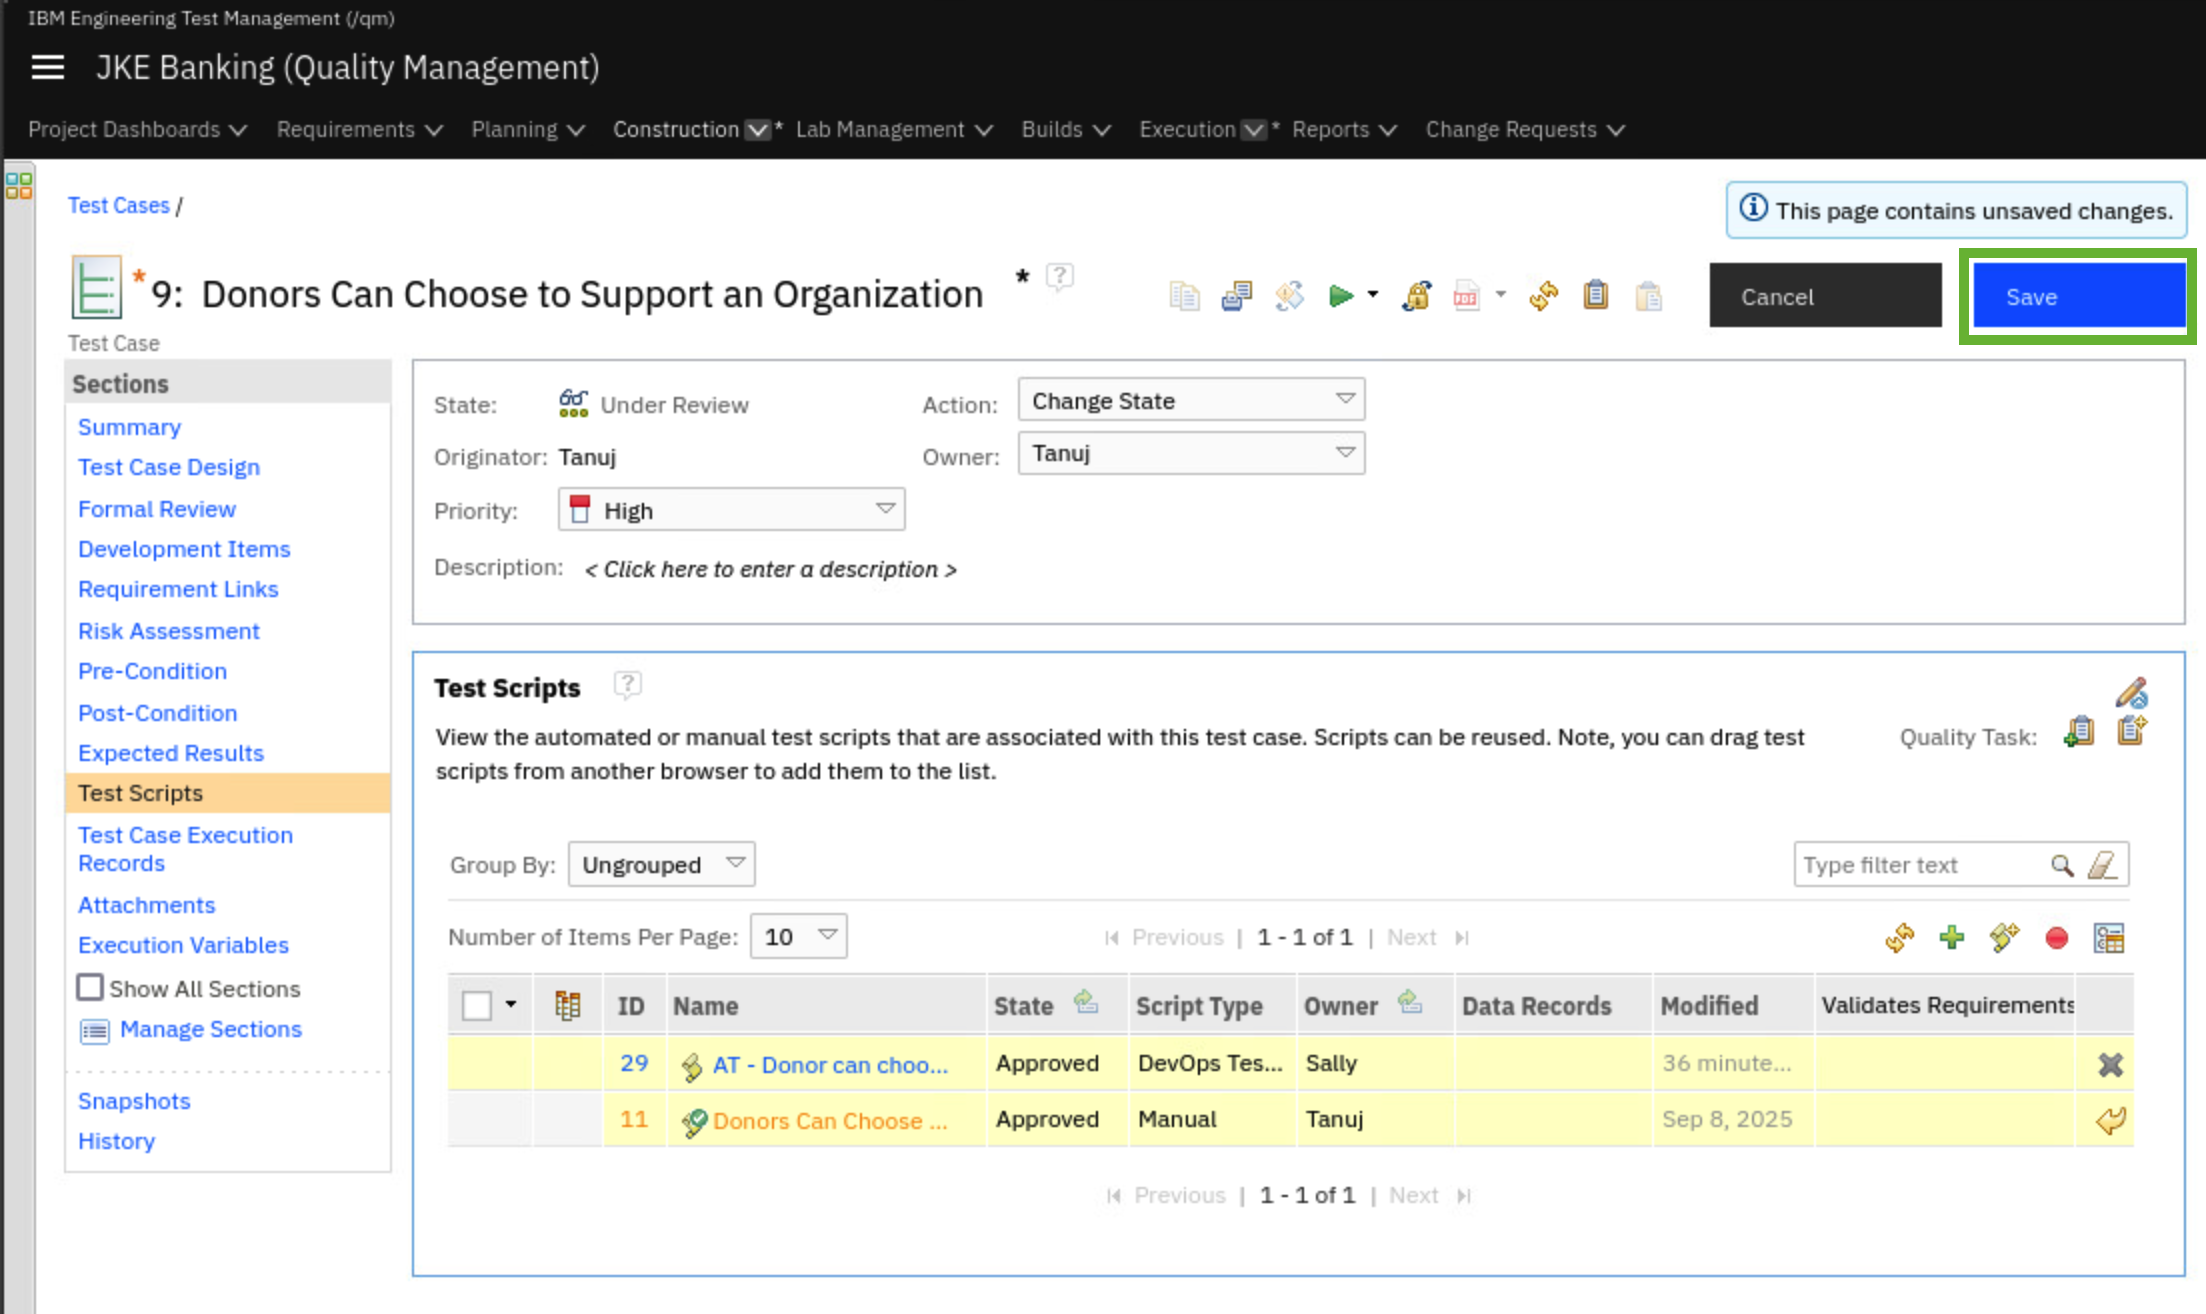
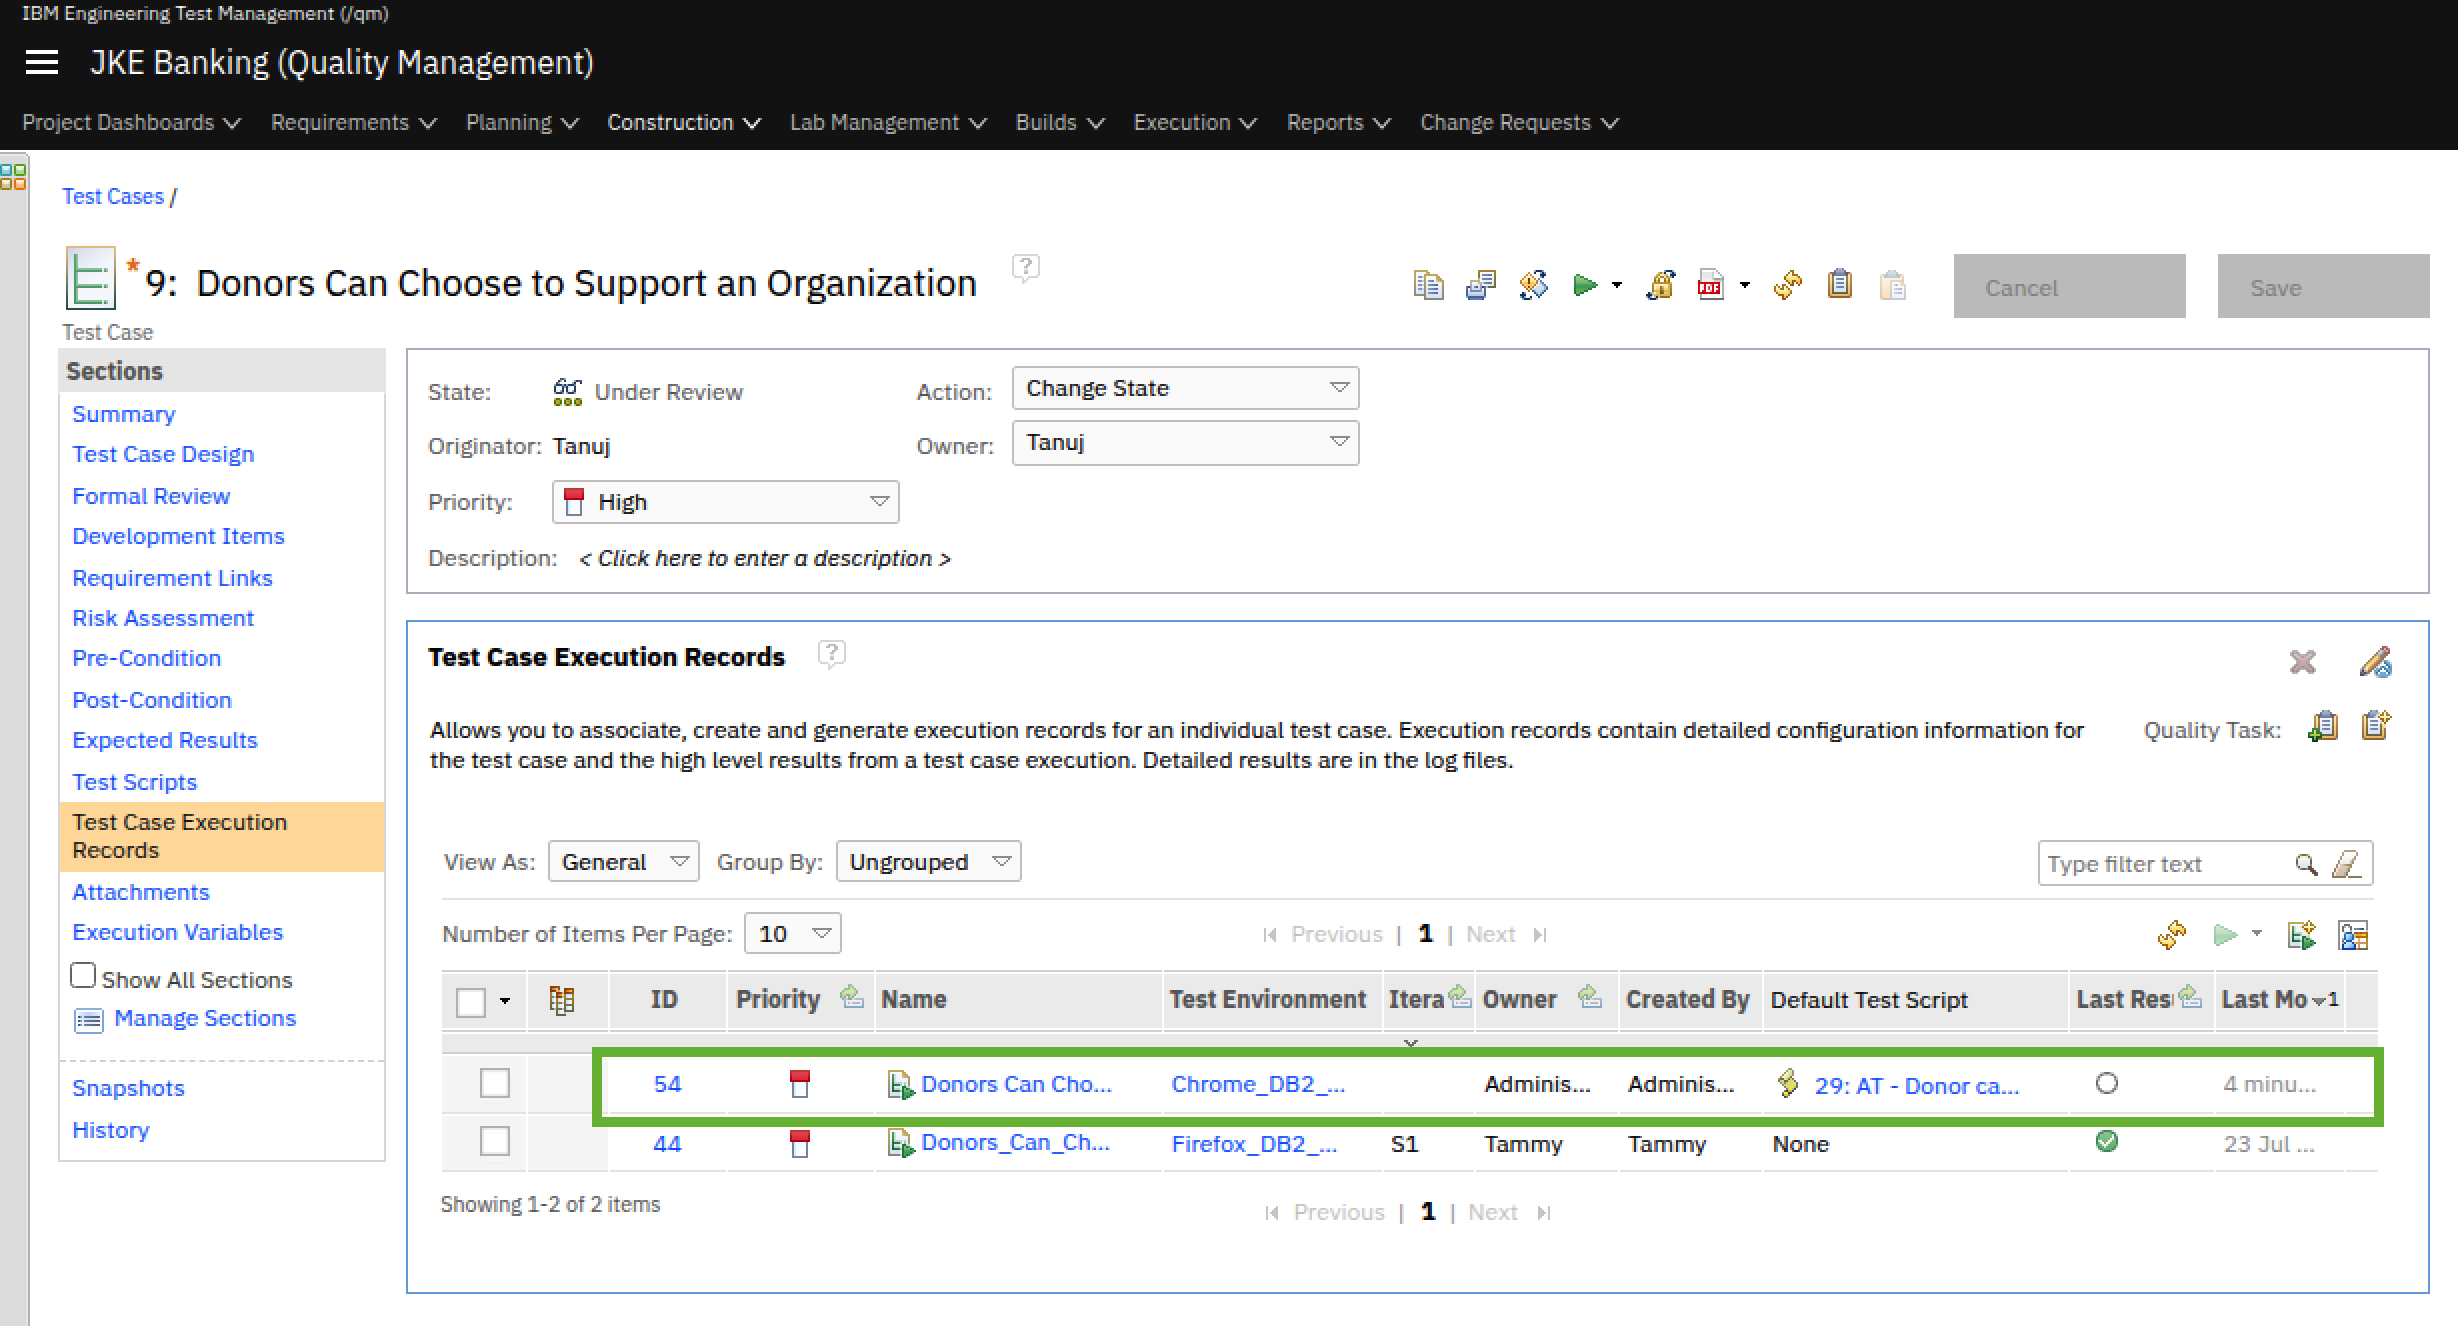
Deployed 916faa4 with MkDocs version: 1.6.1

diff --git a/index.html b/index.html
@@ -461,10 +461,10 @@
 </li>
         
           <li class="md-nav__item">
-  <a href="#5-review-the-test-execution-verdict-and-result-file-returned-to-etm-from-devops-test-solution" class="md-nav__link">
+  <a href="#5-review-the-test-execution-verdict-and-result-file-returned-to-etm-from-the-devops-test-ui-solution" class="md-nav__link">
     <span class="md-ellipsis">
       
-        5. Review the test execution verdict and result file returned to ETM from DevOps Test solution
+        5. Review the test execution verdict and result file returned to ETM from the DevOps Test UI solution
       
     </span>
   </a>
@@ -769,7 +769,7 @@ To learn more about test automation capabilities offered by IBM visit <a href="h
 <tr>
 <td style="text-align: center;">1</td>
 <td style="text-align: left;">From Ubuntu desktop, click <strong>DevOps Test UI</strong> shortcut to launch the testing application.</td>
-<td style="text-align: left;"><img src="media/t1_21.png" alt="t1_21" style="width:25%; height:auto;"></td>
+<td style="text-align: left;"><img src="media/t1_21.png" alt="t1_21" style="width:15%; height:auto;"></td>
 </tr>
 <tr>
 <td style="text-align: center;">2</td>
@@ -919,7 +919,7 @@ As these remaining two test automation solutions have not been installed/configu
 </tr>
 <tr>
 <td style="text-align: center;">7</td>
-<td style="text-align: left;">Enter the path to the DevOps Test UI workspace and project area within the workspace.</br></br><strong>/home/sysadmin/project/workspace/EchoLogic</strong></br></br>Click <strong>Go</strong>.</td>
+<td style="text-align: left;">Enter the path to the DevOps Test UI workspace and project area within the workspace.</br></br><strong>/home/sysadmin/IBM/devopstest/workspace/EchoLogic</strong></br></br>Click <strong>Go</strong>.</td>
 <td style="text-align: left;"><img src="media/t1_42.png" alt="t1_42" style="width:100%; height:auto;"></td>
 </tr>
 <tr>
@@ -971,11 +971,26 @@ As these remaining two test automation solutions have not been installed/configu
 </tr>
 <tr>
 <td style="text-align: center;">3</td>
-<td style="text-align: left;">Working in the Test Case Execution Records view of the Test Case, add a new Test Case Execution Record by clicking the Generate New Test Case Execution Record icon.</td>
-<td style="text-align: left;"><img src="media/t1_48.png" alt="t1_48" style="width:100%; height:auto;"></td>
+<td style="text-align: left;">Select the Test Scripts view of the Test Case and click the <strong>Add Test Scripts</strong> icon.</td>
+<td style="text-align: left;"><img src="media/t1_52.png" alt="t1_52" style="width:100%; height:auto;"></td>
 </tr>
 <tr>
 <td style="text-align: center;">4</td>
+<td style="text-align: left;">In the list of available Test Scripts, locate and select the Test Script created in the previous section - <strong>AT-Donor can choose organization</strong>. Click <strong>Add and Close</strong>.</td>
+<td style="text-align: left;"><img src="media/t1_53.png" alt="t1_53" style="width:100%; height:auto;"></td>
+</tr>
+<tr>
+<td style="text-align: center;">5</td>
+<td style="text-align: left;">Select the existing Manual test script and Remove.</td>
+<td style="text-align: left;"><img src="media/t1_54.png" alt="t1_54" style="width:100%; height:auto;"></td>
+</tr>
+<tr>
+<td style="text-align: center;">6</td>
+<td style="text-align: left;">Working in the Test Case Execution Records view of the Test Case, <strong>add a new Test Case Execution Record</strong> by clicking the Generate New Test Case Execution Record icon.</td>
+<td style="text-align: left;"><img src="media/t1_48.png" alt="t1_48" style="width:100%; height:auto;"></td>
+</tr>
+<tr>
+<td style="text-align: center;">7</td>
 <td style="text-align: left;">From the list of available Test Environments, select <strong>Chrome_DB2_Tomcat...</strong> and click <strong>Next</strong>.</td>
 <td style="text-align: left;"><img src="media/t1_49.png" alt="t1_49" style="width:100%; height:auto;"></td>
 </tr>
@@ -985,33 +1000,18 @@ As these remaining two test automation solutions have not been installed/configu
 <td style="text-align: left;"></td>
 </tr>
 <tr>
-<td style="text-align: center;">5</td>
+<td style="text-align: center;">8</td>
 <td style="text-align: left;">Enable the Test Environment and click <strong>Next</strong>.</td>
 <td style="text-align: left;"><img src="media/t1_50.png" alt="t1_50" style="width:100%; height:auto;"></td>
 </tr>
 <tr>
-<td style="text-align: center;">6</td>
+<td style="text-align: center;">9</td>
 <td style="text-align: left;">Select the Test Environment and click <strong>Generate Test Case Execution Records</strong></td>
 <td style="text-align: left;"><img src="media/t1_51.png" alt="t1_51" style="width:100%; height:auto;"></td>
 </tr>
 <tr>
-<td style="text-align: center;">7</td>
-<td style="text-align: left;">Select the Test Scripts view of the Test Case and click the <strong>Add Test Scripts</strong> icon.</td>
-<td style="text-align: left;"><img src="media/t1_52.png" alt="t1_52" style="width:100%; height:auto;"></td>
-</tr>
-<tr>
-<td style="text-align: center;">8</td>
-<td style="text-align: left;">In the list of available Test Scripts, locate and select the Test Script created in the previous section - <strong>AT-Donor can choose organization</strong>. Click <strong>Add and Close</strong>.</td>
-<td style="text-align: left;"><img src="media/t1_53.png" alt="t1_53" style="width:100%; height:auto;"></td>
-</tr>
-<tr>
-<td style="text-align: center;">9</td>
-<td style="text-align: left;">Select the existing Manual test script and Remove.</td>
-<td style="text-align: left;"><img src="media/t1_54.png" alt="t1_54" style="width:100%; height:auto;"></td>
-</tr>
-<tr>
 <td style="text-align: center;">10</td>
-<td style="text-align: left;"><strong>Save</strong> the Test Case changes.</td>
+<td style="text-align: left;">Notice the addition of the new Test Case Execution Record containing the automated test script as the default. <br/> <strong>Save</strong> the Test Case changes (if required).</td>
 <td style="text-align: left;"><img src="media/t1_55.png" alt="t1_55" style="width:100%; height:auto;"></td>
 </tr>
 </tbody>
@@ -1035,7 +1035,7 @@ As these remaining two test automation solutions have not been installed/configu
 <tr>
 <td style="text-align: center;">2</td>
 <td style="text-align: left;">Select Run from the options presented.</td>
-<td style="text-align: left;"><img src="media/t1_57.png" alt="t1_57" style="width:100%; height:auto;"></td>
+<td style="text-align: left;"><img src="media/t1_57.png" alt="t1_57" style="width:50%; height:auto;"></td>
 </tr>
 <tr>
 <td style="text-align: center;">3</td>
@@ -1049,13 +1049,13 @@ As these remaining two test automation solutions have not been installed/configu
 </tr>
 <tr>
 <td style="text-align: center;">4</td>
-<td style="text-align: left;">Automated test playback is complete when you see 100% in the Summary panel.</td>
+<td style="text-align: left;">Automated test playback is complete when you see 100% in the Summary panel. <br/><br/> <strong>NOTE:</strong> You may experience a test execution failure due to an intermittent issue in the image. If the test case execution does fail, simply re-run the test case to return a Passed Verdict.</td>
 <td style="text-align: left;"><img src="media/t1_60.png" alt="t1_60" style="width:100%; height:auto;"></td>
 </tr>
 </tbody>
 </table>
 <p><em>Congratulations on successfully executing the DevOps Test UI test script via an ETM test case to quickly verify the associated user story.</em></p>
-<h3 id="5-review-the-test-execution-verdict-and-result-file-returned-to-etm-from-devops-test-solution">5. Review the test execution verdict and result file returned to ETM from DevOps Test solution</h3>
+<h3 id="5-review-the-test-execution-verdict-and-result-file-returned-to-etm-from-the-devops-test-ui-solution">5. Review the test execution verdict and result file returned to ETM from the DevOps Test UI solution</h3>
 <table>
 <thead>
 <tr>
